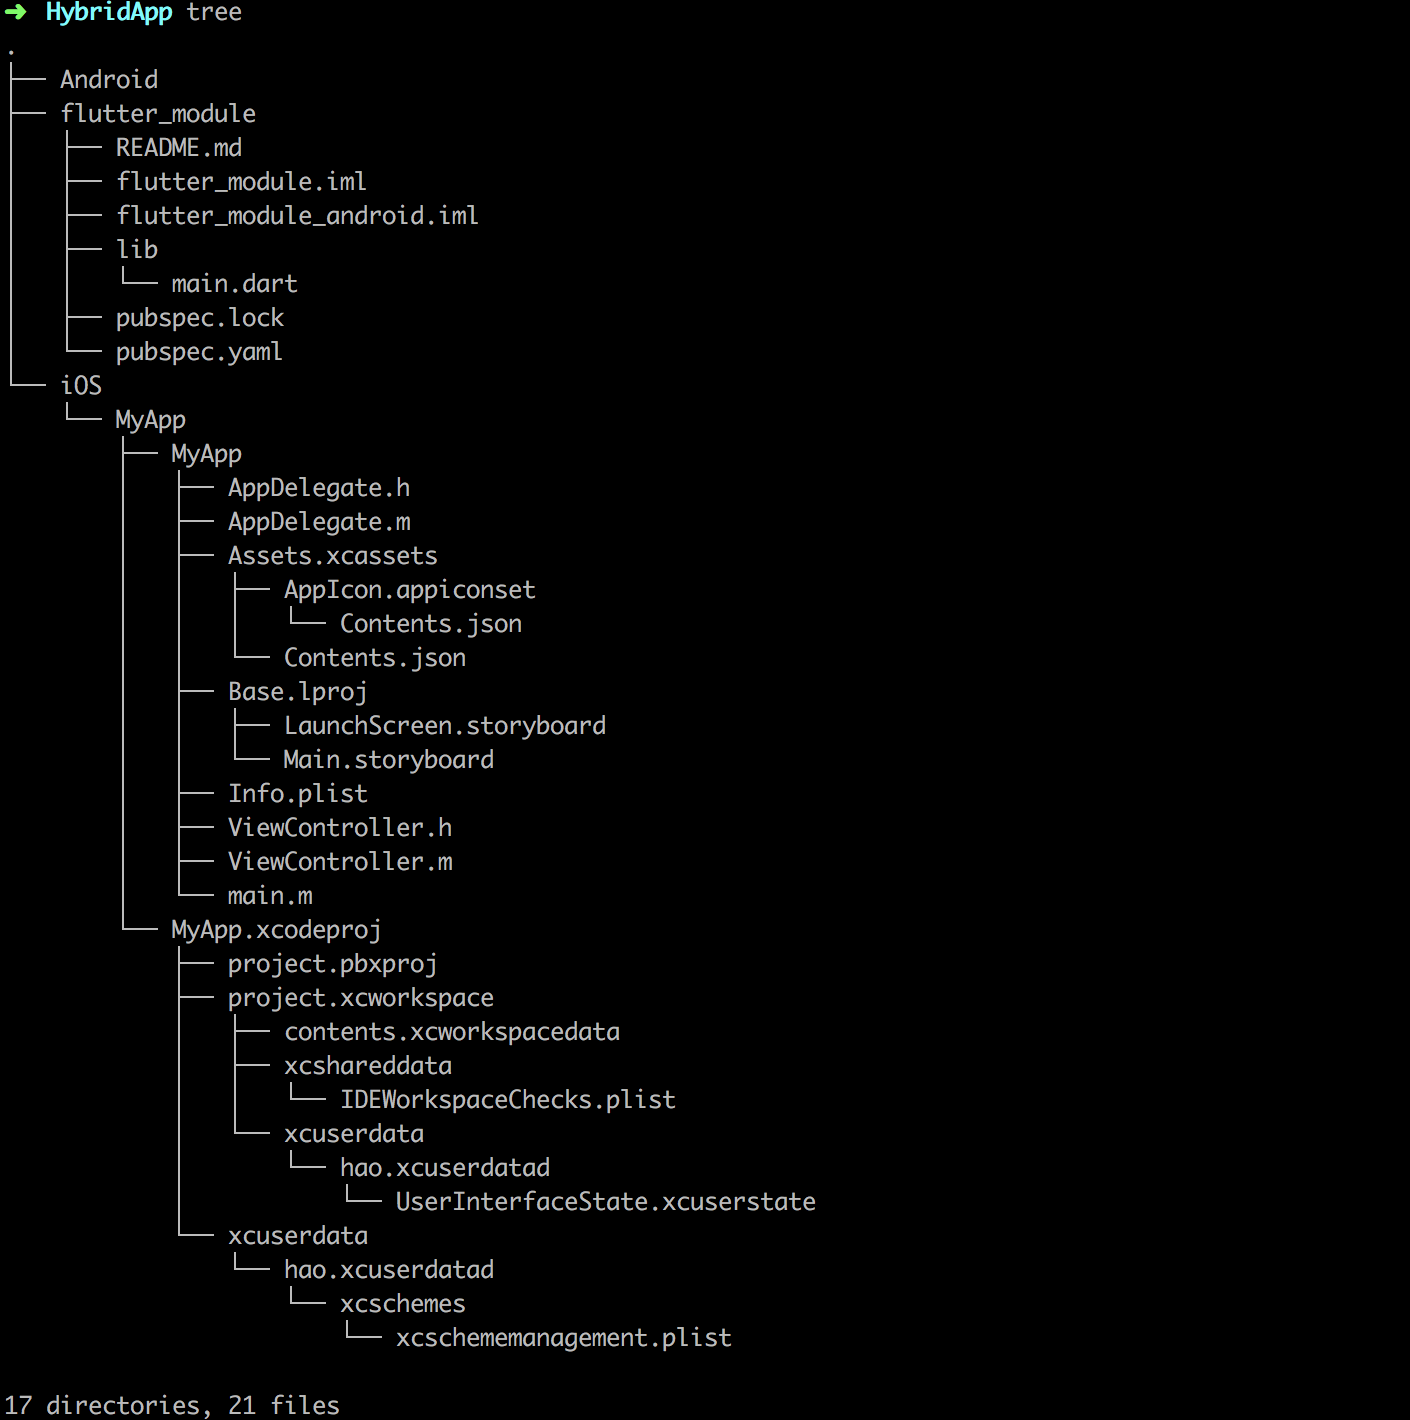
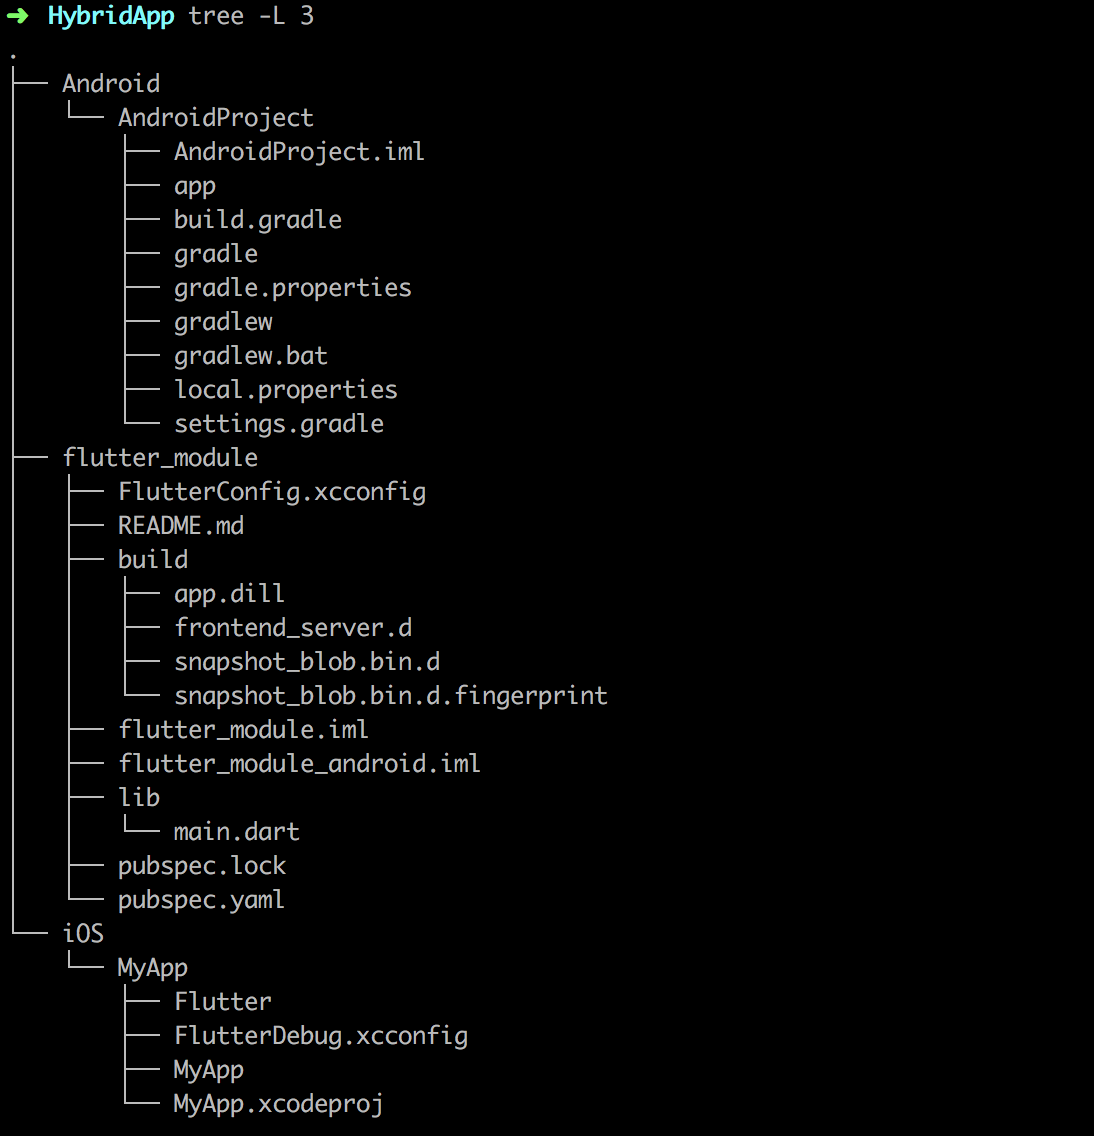
update

diff --git a/_site/flutter/2018/12/20/HybridFlutter/index.html b/_site/flutter/2018/12/20/HybridFlutter/index.html
@@ -16,7 +16,7 @@
     <meta name="viewport" content="width=device-width, initial-scale=1">
     <meta name="description" content="Write your site description here. It will be used as your sites meta description as well!">
 
-    <title>现有iOS项目接入Flutter - Helloted Blog</title>
+    <title>现有APP项目接入Flutter - Helloted Blog</title>
 
     <link rel="canonical" href="http://www.helloted.com/flutter/2018/12/20/HybridFlutter/">
 
@@ -111,9 +111,9 @@
         <div class="row">
             <div class="col-lg-8 col-lg-offset-2 col-md-10 col-md-offset-1">
                 <div class="post-heading">
-                    <h1>现有iOS项目接入Flutter</h1>
+                    <h1>现有APP项目接入Flutter</h1>
                     
-                    <h2 class="subheading">现有iOS项目接入Flutter进行混合开发</h2>
+                    <h2 class="subheading">iOS/Android项目接入Flutter进行混合开发</h2>
                     
                     <span class="meta">Posted by Ted on December 20, 2018</span>
                 </div>
@@ -128,17 +128,18 @@
         <div class="row">
             <div class="col-lg-8 col-lg-offset-2 col-md-10 col-md-offset-1">
 
-				<h4 id="1现有目录">1、现有目录</h4>
+				<h3 id="一初始项目">一、初始项目</h3>
+
+<h4 id="1现有目录">1、现有目录</h4>
 
 <p>现有一个最简单的iOS项目MyApp，将iOS项目和Android项目分别放入放入HybridApp文件夹中，目录结构如下：</p>
 
 <div class="highlighter-rouge"><div class="highlight"><pre class="highlight"><code>HybridApp
 ├── Android
+	└── AndroidProject
 └── iOS
     └── MyApp
 </code></pre></div></div>
-
-<p><img src="/img/Simple_8/43.png" alt="img" /></p>
 
 <h4 id="2建立flutter模块">2、建立Flutter模块</h4>
 
@@ -155,6 +156,7 @@
 
 <div class="highlighter-rouge"><div class="highlight"><pre class="highlight"><code>HybridApp
 ├── Android              //android相关
+	└── AndroidProject   //android项目
 ├── flutter_module       //flutter相关
 └── iOS					 // iOS相关
     └── MyApp			 // iOS项目
@@ -162,7 +164,9 @@
 
 <p><img src="/img/Simple_8/44.png" alt="img" /></p>
 
-<h4 id="3将flutter的相关信息导入ios项目">3、将flutter的相关信息导入iOS项目</h4>
+<h3 id="二ios接入">二、iOS接入</h3>
+
+<h4 id="1将flutter的相关信息导入ios项目">1、将flutter的相关信息导入iOS项目</h4>
 
 <p>在flutter_module目录下有个.iOS的隐藏文件夹，里面有个文件Flutter/Generated.xcconfig，里面有一些flutter的信息</p>
 
@@ -183,7 +187,7 @@
 
 <p><img src="/img/Simple_8/48.png" alt="img" /></p>
 
-<h4 id="4添加脚本">4、添加脚本</h4>
+<h4 id="2添加脚本">2、添加脚本</h4>
 
 <div class="highlighter-rouge"><div class="highlight"><pre class="highlight"><code>"$FLUTTER_ROOT/packages/flutter_tools/bin/xcode_backend.sh" build
 "$FLUTTER_ROOT/packages/flutter_tools/bin/xcode_backend.sh" embed
@@ -197,7 +201,7 @@
 
 <p><img src="/img/Simple_8/51.png" alt="img" /></p>
 
-<h4 id="5改造appdelegate">5、改造AppDelegate</h4>
+<h4 id="3改造appdelegate">3、改造AppDelegate</h4>
 
 <div class="highlighter-rouge"><div class="highlight"><pre class="highlight"><code>AppDelegate.h
 
@@ -215,13 +219,66 @@
 }
 </code></pre></div></div>
 
-<h4 id="6新建一个flutter页面">6、新建一个Flutter页面</h4>
+<h4 id="4新建一个flutter页面">4、新建一个Flutter页面</h4>
 
 <p><img src="/img/Simple_8/53.png" alt="img" /></p>
 
 <p>下面是效果</p>
 
 <p><img src="/img/Simple_8/52.gif" alt="img" /></p>
+
+<h3 id="三安卓接入">三、安卓接入</h3>
+
+<h4 id="1配置">1、配置</h4>
+
+<p>在setting.gradle中添加：</p>
+
+<div class="highlighter-rouge"><div class="highlight"><pre class="highlight"><code>//加入下面配置
+setBinding(new Binding([gradle: this]))
+evaluate(new File(
+        settingsDir.parentFile.parentFile,
+        'flutter_module/.android/include_flutter.groovy'  //flutter_module路径
+))
+</code></pre></div></div>
+
+<p><img src="/img/Simple_8/55.png" alt="img" /></p>
+
+<p>在bulid.gradle中dependencies添加</p>
+
+<div class="highlighter-rouge"><div class="highlight"><pre class="highlight"><code>implementation project(':flutter')
+</code></pre></div></div>
+
+<p>Gradle sync之后就成功导入了Flutter</p>
+
+<h4 id="2使用">2、使用</h4>
+
+<p>Flutter接入View</p>
+
+<div class="language-java highlighter-rouge"><div class="highlight"><pre class="highlight"><code><span class="n">View</span> <span class="n">flutterView</span> <span class="o">=</span> <span class="n">Flutter</span><span class="o">.</span><span class="na">createView</span><span class="o">(</span><span class="n">MainActivity</span><span class="o">.</span><span class="na">this</span><span class="o">,</span><span class="n">getLifecycle</span><span class="o">(),</span><span class="s">"route1"</span><span class="o">);</span>
+<span class="n">FrameLayout</span><span class="o">.</span><span class="na">LayoutParams</span> <span class="n">layout</span> <span class="o">=</span> <span class="k">new</span> <span class="n">FrameLayout</span><span class="o">.</span><span class="na">LayoutParams</span><span class="o">(</span><span class="mi">600</span><span class="o">,</span> <span class="mi">800</span><span class="o">);</span>
+<span class="n">layout</span><span class="o">.</span><span class="na">leftMargin</span> <span class="o">=</span> <span class="mi">100</span><span class="o">;</span>
+<span class="n">layout</span><span class="o">.</span><span class="na">topMargin</span> <span class="o">=</span> <span class="mi">200</span><span class="o">;</span>
+<span class="n">addContentView</span><span class="o">(</span><span class="n">flutterView</span><span class="o">,</span> <span class="n">layout</span><span class="o">);</span>
+</code></pre></div></div>
+
+<p><img src="/img/Simple_8/56.png" alt="img" /></p>
+
+<p>或者Activity形式</p>
+
+<div class="language-java highlighter-rouge"><div class="highlight"><pre class="highlight"><code><span class="kd">public</span> <span class="kd">class</span> <span class="nc">FlutterActivity</span> <span class="kd">extends</span> <span class="n">AppCompatActivity</span> <span class="o">{</span>
+
+    <span class="nd">@Override</span>
+    <span class="kd">protected</span> <span class="kt">void</span> <span class="nf">onCreate</span><span class="o">(</span><span class="n">Bundle</span> <span class="n">savedInstanceState</span><span class="o">)</span> <span class="o">{</span>
+        <span class="kd">super</span><span class="o">.</span><span class="na">onCreate</span><span class="o">(</span><span class="n">savedInstanceState</span><span class="o">);</span>
+        <span class="n">setContentView</span><span class="o">(</span><span class="n">R</span><span class="o">.</span><span class="na">layout</span><span class="o">.</span><span class="na">activity_flutter</span><span class="o">);</span>
+        <span class="n">View</span> <span class="n">flutterView</span> <span class="o">=</span> <span class="n">Flutter</span><span class="o">.</span><span class="na">createView</span><span class="o">(</span><span class="n">FlutterActivity</span><span class="o">.</span><span class="na">this</span><span class="o">,</span><span class="n">getLifecycle</span><span class="o">(),</span><span class="s">"route1"</span><span class="o">);</span>
+        <span class="n">FrameLayout</span><span class="o">.</span><span class="na">LayoutParams</span> <span class="n">layout</span> <span class="o">=</span> <span class="k">new</span>  <span class="n">FrameLayout</span><span class="o">.</span><span class="na">LayoutParams</span><span class="o">(</span><span class="n">FrameLayout</span><span class="o">.</span><span class="na">LayoutParams</span><span class="o">.</span><span class="na">MATCH_PARENT</span><span class="o">,</span> <span class="n">FrameLayout</span><span class="o">.</span><span class="na">LayoutParams</span><span class="o">.</span><span class="na">MATCH_PARENT</span><span class="o">);</span>
+        <span class="n">addContentView</span><span class="o">(</span><span class="n">flutterView</span><span class="o">,</span> <span class="n">layout</span><span class="o">);</span>
+    <span class="o">}</span>
+<span class="o">}</span>
+</code></pre></div></div>
+
+<p><img src="/img/Simple_8/57.png" alt="img" /></p>
 
 
                 <hr>

diff --git a/_site/ios/2018/11/21/Warning/index.html b/_site/ios/2018/11/21/Warning/index.html
@@ -378,7 +378,7 @@ else{}
                     
                     
                     <li class="next">
-                        <a href="/flutter/2018/12/20/HybridFlutter/" data-toggle="tooltip" data-placement="top" title="现有iOS项目接入Flutter">下一篇 &rarr;</a>
+                        <a href="/flutter/2018/12/20/HybridFlutter/" data-toggle="tooltip" data-placement="top" title="现有APP项目接入Flutter">下一篇 &rarr;</a>
                     </li>
                     
                 </ul>

diff --git a/_site/index.html b/_site/index.html
@@ -127,11 +127,11 @@
 			
 <div class="post-preview">
     <a href="/flutter/2018/12/20/HybridFlutter/">
-        <h2 class="post-title"> 【Flutter】现有iOS项目接入Flutter
+        <h2 class="post-title"> 【Flutter】现有APP项目接入Flutter
         </h2>
         
         <h3 class="post-subtitle">
-            现有iOS项目接入Flutter进行混合开发
+            iOS/Android项目接入Flutter进行混合开发
         </h3>
         
     </a>

diff --git a/_site/aarchive/index.html b/_site/aarchive/index.html
@@ -136,7 +136,7 @@
       <ul>
     
 
-    <li><span>20/12/2018</span> &raquo; <a href="/flutter/2018/12/20/HybridFlutter/">现有iOS项目接入Flutter</a></li>
+    <li><span>20/12/2018</span> &raquo; <a href="/flutter/2018/12/20/HybridFlutter/">现有APP项目接入Flutter</a></li>
 
     
           

diff --git a/_site/aacategory/index.html b/_site/aacategory/index.html
@@ -444,7 +444,7 @@
 <h2>Flutter (1)</h2> 
 <ul class="arc-list">
  
-<li>20/12/2018 &raquo;  <a href="/flutter/2018/12/20/HybridFlutter/">   现有iOS项目接入Flutter</a></li>
+<li>20/12/2018 &raquo;  <a href="/flutter/2018/12/20/HybridFlutter/">   现有APP项目接入Flutter</a></li>
 
 </ul> 
 

diff --git a/_posts/2018-12-20-HybridFlutter.md b/_posts/2018-12-20-HybridFlutter.md
@@ -1,12 +1,14 @@
 ---
 layout:     post
 category:   Flutter
-title:      "现有iOS项目接入Flutter"
-subtitle:   "现有iOS项目接入Flutter进行混合开发"
+title:      "现有APP项目接入Flutter"
+subtitle:   "iOS/Android项目接入Flutter进行混合开发"
 date:       2018-12-20 12:00:00
 author:     "Ted"
 header-img: "img/default.jpg"
 ---
+
+### 一、初始项目
 
 #### 1、现有目录
 
@@ -15,11 +17,10 @@ header-img: "img/default.jpg"
 ```
 HybridApp
 ├── Android
+	└── AndroidProject
 └── iOS
     └── MyApp
 ```
-
-![img](/img/Simple_8/43.png)
 
 #### 2、建立Flutter模块
 
@@ -39,6 +40,7 @@ $ flutter create -t module flutter_module
 ```
 HybridApp
 ├── Android              //android相关
+	└── AndroidProject   //android项目
 ├── flutter_module       //flutter相关
 └── iOS					 // iOS相关
     └── MyApp			 // iOS项目
@@ -46,7 +48,9 @@ HybridApp
 
 ![img](/img/Simple_8/44.png)
 
-#### 3、将flutter的相关信息导入iOS项目
+### 二、iOS接入
+
+#### 1、将flutter的相关信息导入iOS项目
 
 在flutter_module目录下有个.iOS的隐藏文件夹，里面有个文件Flutter/Generated.xcconfig，里面有一些flutter的信息
 
@@ -68,7 +72,7 @@ HybridApp
 
 ![img](/img/Simple_8/48.png)
 
-#### 4、添加脚本
+#### 2、添加脚本
 
 ```
 "$FLUTTER_ROOT/packages/flutter_tools/bin/xcode_backend.sh" build
@@ -83,7 +87,7 @@ HybridApp
 
 ![img](/img/Simple_8/51.png)
 
-#### 5、改造AppDelegate
+#### 3、改造AppDelegate
 
 ```
 AppDelegate.h
@@ -103,10 +107,69 @@ AppDelegate.m
 }
 ```
 
-#### 6、新建一个Flutter页面
+#### 4、新建一个Flutter页面
 
 ![img](/img/Simple_8/53.png)
 
 下面是效果
 
 ![img](/img/Simple_8/52.gif)
+
+
+
+### 三、安卓接入
+
+#### 1、配置
+
+在setting.gradle中添加：
+
+```
+//加入下面配置
+setBinding(new Binding([gradle: this]))
+evaluate(new File(
+        settingsDir.parentFile.parentFile,
+        'flutter_module/.android/include_flutter.groovy'  //flutter_module路径
+))
+```
+
+![img](/img/Simple_8/55.png)
+
+在bulid.gradle中dependencies添加
+
+```
+implementation project(':flutter')
+```
+
+Gradle sync之后就成功导入了Flutter
+
+#### 2、使用
+
+Flutter接入View
+
+```java
+View flutterView = Flutter.createView(MainActivity.this,getLifecycle(),"route1");
+FrameLayout.LayoutParams layout = new FrameLayout.LayoutParams(600, 800);
+layout.leftMargin = 100;
+layout.topMargin = 200;
+addContentView(flutterView, layout);
+```
+
+![img](/img/Simple_8/56.png)
+
+或者Activity形式
+
+```java
+public class FlutterActivity extends AppCompatActivity {
+
+    @Override
+    protected void onCreate(Bundle savedInstanceState) {
+        super.onCreate(savedInstanceState);
+        setContentView(R.layout.activity_flutter);
+        View flutterView = Flutter.createView(FlutterActivity.this,getLifecycle(),"route1");
+        FrameLayout.LayoutParams layout = new  FrameLayout.LayoutParams(FrameLayout.LayoutParams.MATCH_PARENT, FrameLayout.LayoutParams.MATCH_PARENT);
+        addContentView(flutterView, layout);
+    }
+}
+```
+
+![img](/img/Simple_8/57.png)
